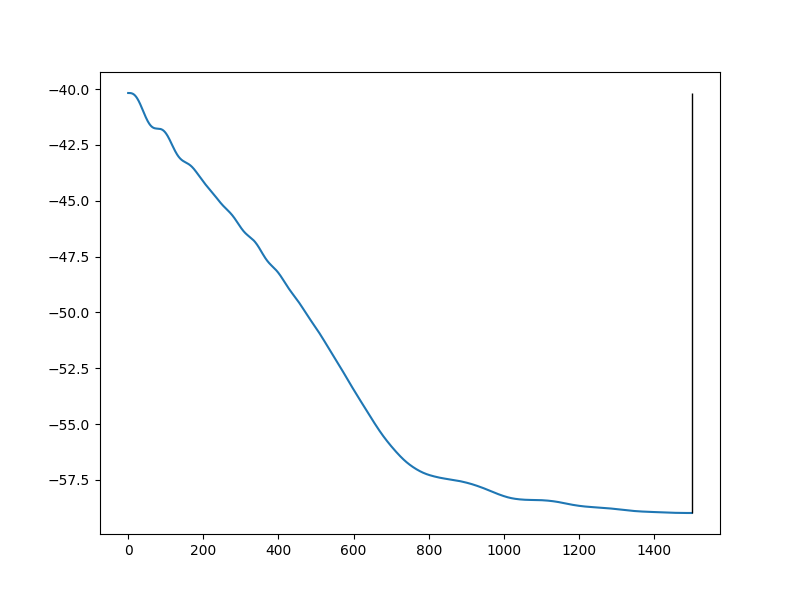
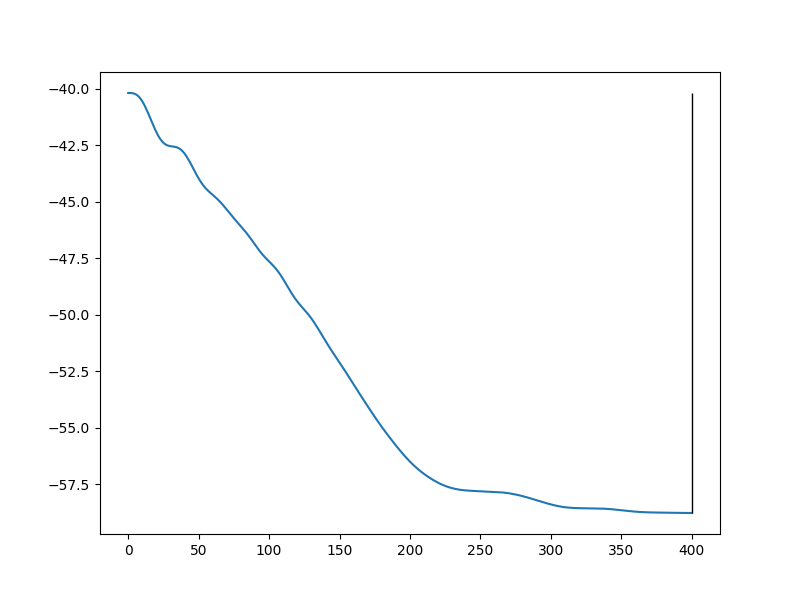
fix: plotting edge labels

diff --git a/SmartCityQCWizard/maxcut.py b/SmartCityQCWizard/maxcut.py
@@ -118,7 +118,7 @@ h1 = construct_H1(graph=G, adjacency_matrix=adjacency_matrix)
 # Setup callbacks and evolution
 energy = callbacks.Energy(h1)
 state = callbacks.State(copy=True)
-evo = AdiabaticEvolution(h0=h0, h1=h1, s=lambda t: t, dt=0.02, callbacks=[energy, state])
+evo = AdiabaticEvolution(h0=h0, h1=h1, s=lambda t: t, dt=0.05, callbacks=[energy, state])
 
 # Initial state setup
 c = Circuit(num_nodes)
@@ -129,7 +129,7 @@ print("GS circuit: ", h0.expectation(c().state()))
 
 # Run evolution
 inital_time = time.time()
-evolved = evo(final_time=30, initial_state=c().state())
+evolved = evo(final_time=20, initial_state=c().state())
 print(f"\nTotal evolution time: {time.time() - inital_time}")
 
 # Plot and analyze results

diff --git a/SmartCityQCWizard/graph_utils.py b/SmartCityQCWizard/graph_utils.py
@@ -31,7 +31,7 @@ def color_graph_by_bitstring(G, bitstring, figname, weights):
     # Ensure edges have 'weight' attributes
     edge_labels = nx.get_edge_attributes(G, 'weight')
     if not edge_labels:  # If no weights exist, set default weights to 1
-        edge_labels = {(u, v): weights[u-1][v-1] for u, v in G.edges()}
+        edge_labels = {(u, v): np.round(weights[u][v], decimals=3) for u, v in G.edges()}
 
     nx.draw_networkx_edge_labels(G, pos, edge_labels=edge_labels, label_pos=0.5, font_size=12)  # label_pos=0.5 places them at the middle of the edges
     
